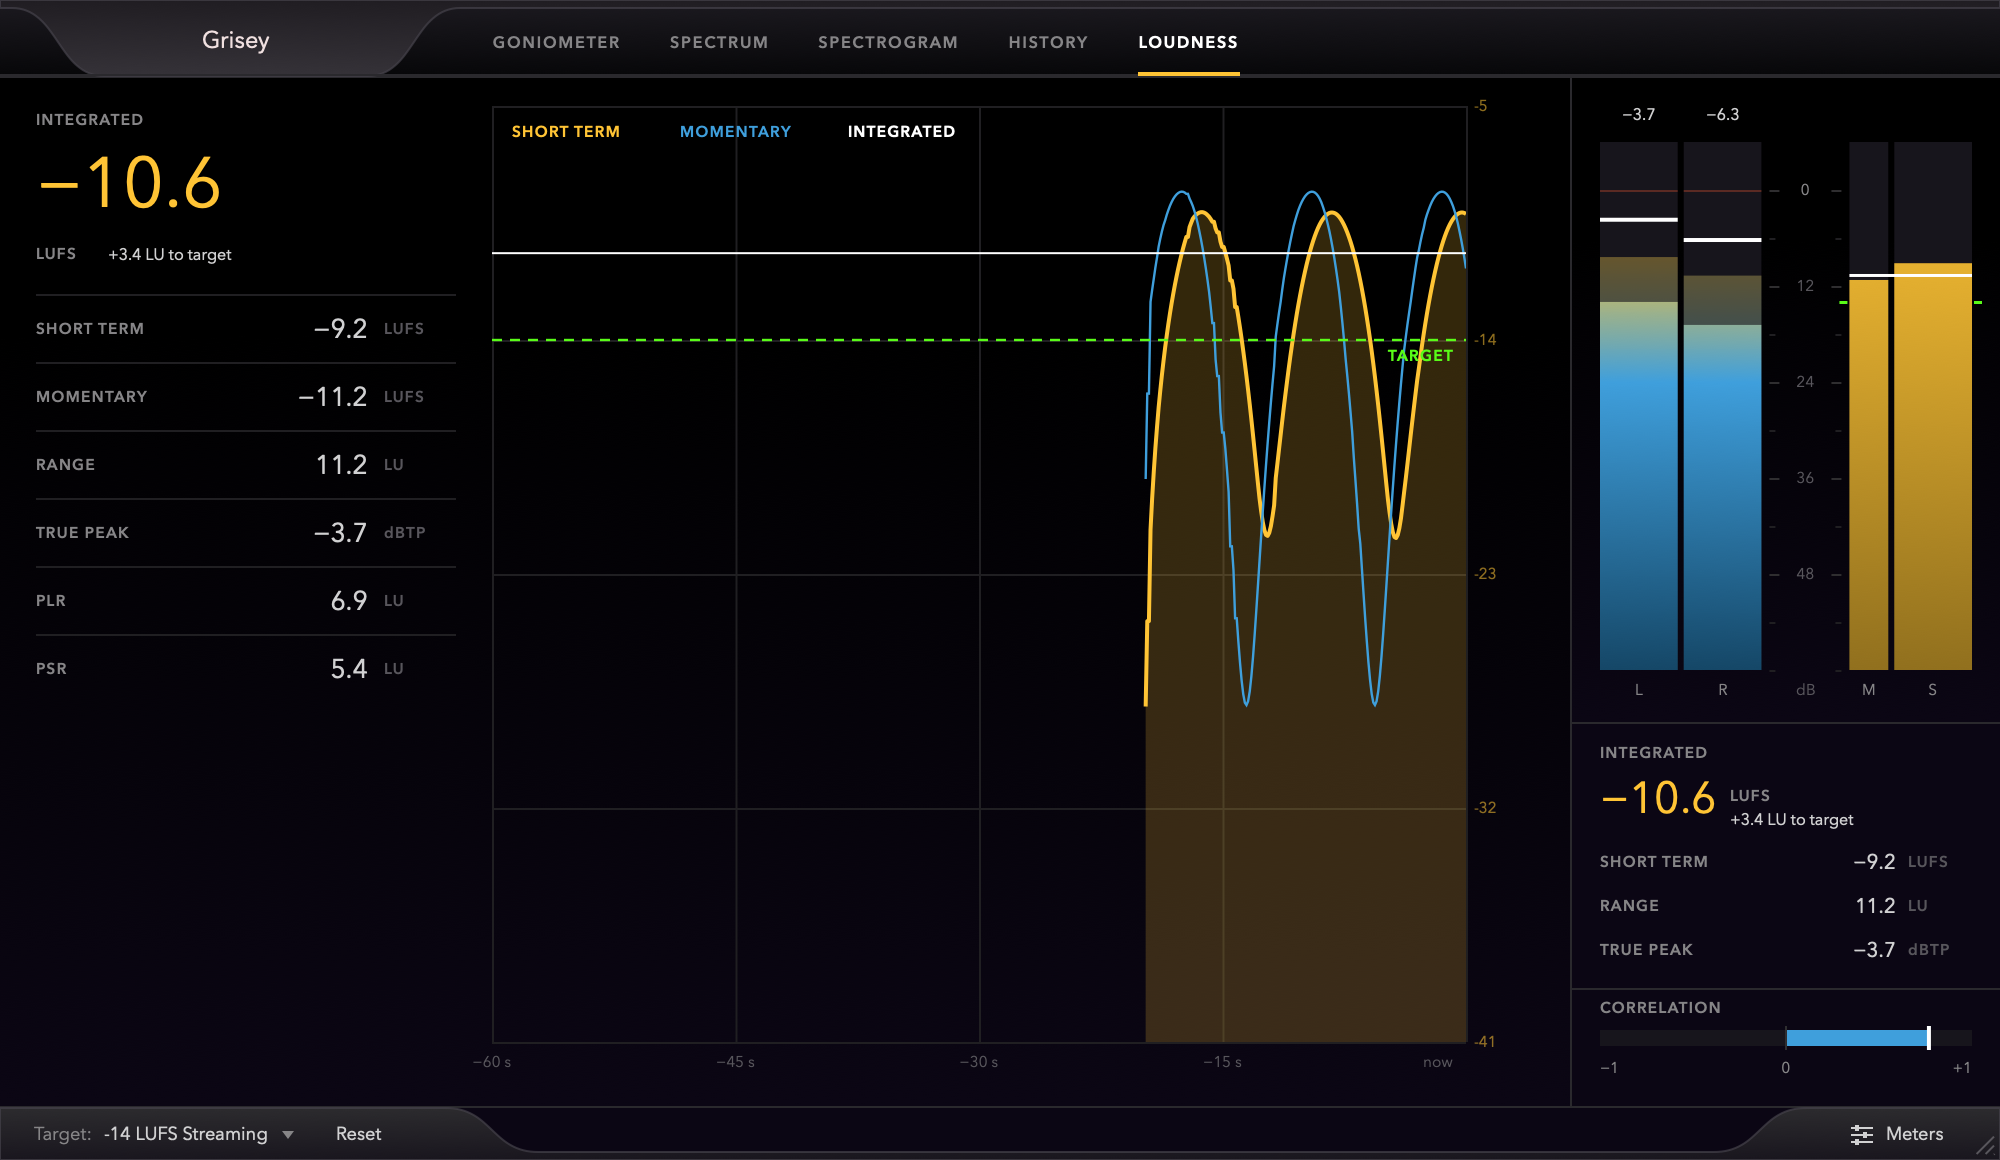
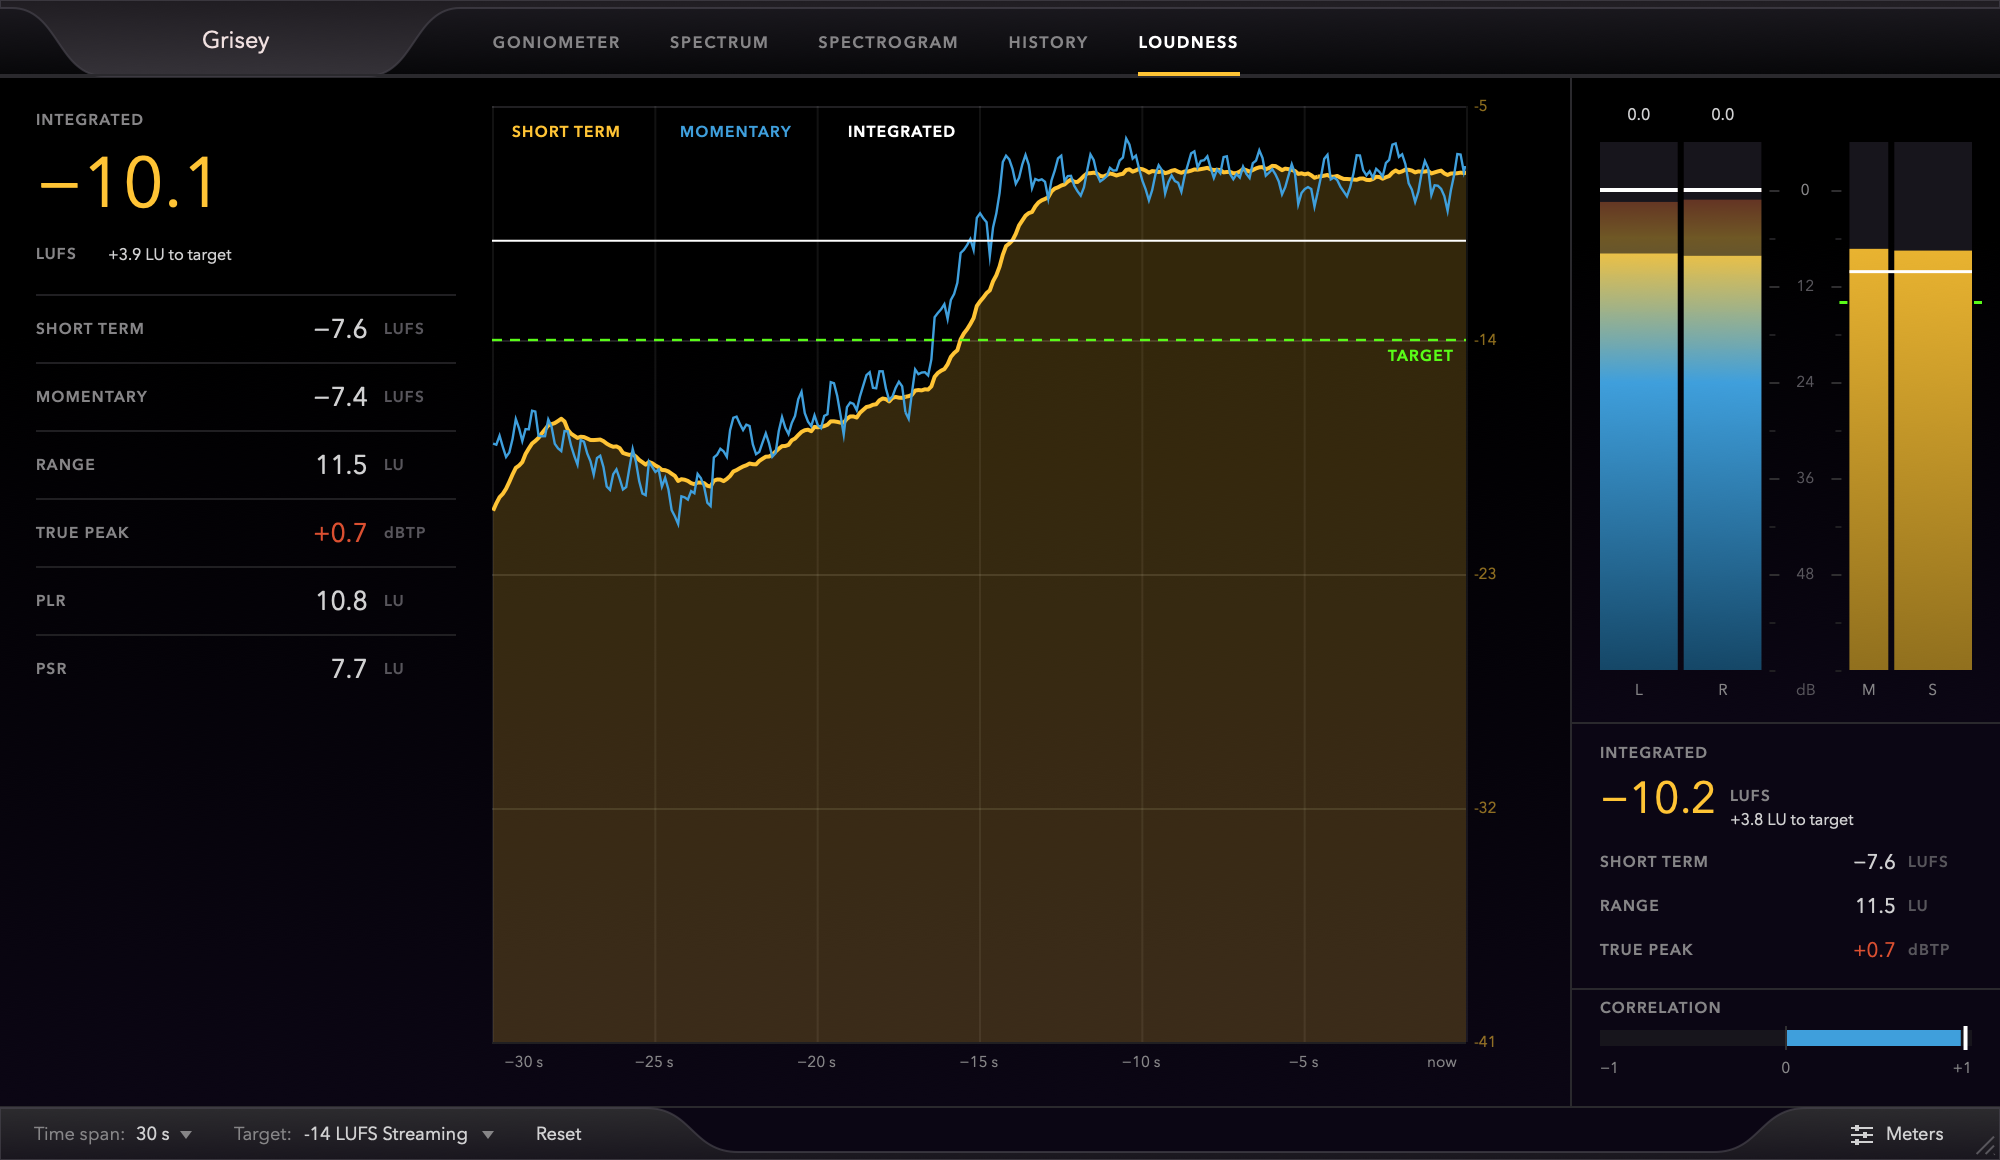
Take the README's pictures with music
The pictures showed the snapshot tool's test tones. The tool can now play an
audio file through the plugin instead (audio=, from=), and the four pictures
were taken again with a song: the spectrum and the goniometer in the full mix,
and the spectrogram and the loudness across the intro and the drop, where
there is something for a timeline to show.

diff --git a/Tests/Snapshot.cpp b/Tests/Snapshot.cpp
@@ -7,7 +7,7 @@
 //
 //   GriseySnapshot <output.png> [view] [seconds] [parameterID=value ...]
 //
-// The views are 0 goniometer, 1 analyzer, 2 spectrogram, 3 histogram and 4 loudness.
+// The views are 0 goniometer, 1 spectrum, 2 spectrogram, 3 history and 4 loudness.
 // Any parameter can be set by its ID, for example spectrumChannels=1 or goniometerMode=1,
 // and size=1400x800 sets the size of the editor.
 //
@@ -19,6 +19,9 @@
 // the channels, a tone that sweeps up from 200 Hz to 8 kHz every 4 s, and a little noise.
 // The whole signal swells and fades every 8 s, so every meter has something to show, and
 // there is a loud click every 5 s, which marks a moment that can be found in every view.
+//
+// audio=song.mp3 plays a file through the plugin instead of the test signal, in a loop, and
+// from=30 starts it 30 s in. The file is read with whatever formats the system offers.
 int main(int argc, char* argv[])
 {
     if (argc < 2)
@@ -33,8 +36,43 @@ int main(int argc, char* argv[])
 
     juce::ScopedJuceInitialiser_GUI juceInit;
 
-    constexpr double sampleRate = 48000.0;
+    double sampleRate = 48000.0;
     constexpr int blockSize = 512;
+
+    // The file has to be read before the processor is prepared, because it decides the sample rate
+    juce::AudioBuffer<float> audioFile;
+    double audioFileStart = 0.0;
+
+    for (int i = 4; i < argc; ++i)
+    {
+        const auto argument = juce::String(argv[i]);
+        const auto value = argument.fromFirstOccurrenceOf("=", false, false);
+
+        if (argument.startsWith("from="))
+            audioFileStart = value.getDoubleValue();
+
+        if (! argument.startsWith("audio="))
+            continue;
+
+        juce::AudioFormatManager formats;
+        formats.registerBasicFormats();
+
+        const std::unique_ptr<juce::AudioFormatReader> reader(formats.createReaderFor(juce::File::getCurrentWorkingDirectory().getChildFile(value)));
+
+        if (reader == nullptr || reader->lengthInSamples < blockSize)
+        {
+            std::cout << "Could not read " << value << std::endl;
+            return 1;
+        }
+
+        sampleRate = reader->sampleRate;
+        audioFile.setSize(2, (int) reader->lengthInSamples);
+        reader->read(&audioFile, 0, (int) reader->lengthInSamples, 0, true, true);
+
+        // A mono file plays on both channels
+        if (reader->numChannels < 2)
+            audioFile.copyFrom(1, 0, audioFile, 0, 0, audioFile.getNumSamples());
+    }
 
     GriseyAudioProcessor processor;
     processor.setPlayConfigDetails(2, 2, sampleRate, blockSize);
@@ -50,6 +88,9 @@ int main(int argc, char* argv[])
     {
         const auto argument = juce::String(argv[i]);
         const auto id = argument.upToFirstOccurrenceOf("=", false, false);
+
+        if (id == "audio" || id == "from")
+            continue;
 
         if (id == "size")
             size = argument.fromFirstOccurrenceOf("=", false, false);
@@ -87,26 +128,41 @@ int main(int argc, char* argv[])
         double sweepPhase = 0.0;
         const auto start = std::chrono::steady_clock::now();
 
+        const int fileLength = audioFile.getNumSamples();
+        const auto fileOffset = (juce::int64) (audioFileStart * sampleRate);
+
         while (running.load())
         {
-            for (int i = 0; i < blockSize; ++i, ++position)
+            if (fileLength > 0)
             {
-                const double t = (double) position / sampleRate;
-                const float low = 0.4f * (float) std::sin(juce::MathConstants<double>::twoPi * 440.0 * t);
-                const float high = 0.15f * (float) std::sin(juce::MathConstants<double>::twoPi * 3000.0 * t);
+                for (int i = 0; i < blockSize; ++i, ++position)
+                {
+                    const int source = (int) ((fileOffset + position) % fileLength);
+                    block.setSample(0, i, audioFile.getSample(0, source));
+                    block.setSample(1, i, audioFile.getSample(1, source));
+                }
+            }
+            else
+            {
+                for (int i = 0; i < blockSize; ++i, ++position)
+                {
+                    const double t = (double) position / sampleRate;
+                    const float low = 0.4f * (float) std::sin(juce::MathConstants<double>::twoPi * 440.0 * t);
+                    const float high = 0.15f * (float) std::sin(juce::MathConstants<double>::twoPi * 3000.0 * t);
 
-                // The sweep rises by the same ratio in every moment, which is a straight line on the spectrogram
-                const double sweepFrequency = 200.0 * std::pow(40.0, std::fmod(t, 4.0) / 4.0);
-                sweepPhase += juce::MathConstants<double>::twoPi * sweepFrequency / sampleRate;
-                const float sweep = 0.1f * (float) std::sin(sweepPhase);
+                    // The sweep rises by the same ratio in every moment, which is a straight line on the spectrogram
+                    const double sweepFrequency = 200.0 * std::pow(40.0, std::fmod(t, 4.0) / 4.0);
+                    sweepPhase += juce::MathConstants<double>::twoPi * sweepFrequency / sampleRate;
+                    const float sweep = 0.1f * (float) std::sin(sweepPhase);
 
-                const float swell = 0.55f + 0.45f * (float) std::sin(juce::MathConstants<double>::twoPi * t / 8.0);
+                    const float swell = 0.55f + 0.45f * (float) std::sin(juce::MathConstants<double>::twoPi * t / 8.0);
 
-                // A burst of noise for 30 ms in every 5 s
-                const float click = std::fmod(t, 5.0) < 0.03 ? 0.8f * (random.nextFloat() * 2.f - 1.f) : 0.f;
+                    // A burst of noise for 30 ms in every 5 s
+                    const float click = std::fmod(t, 5.0) < 0.03 ? 0.8f * (random.nextFloat() * 2.f - 1.f) : 0.f;
 
-                block.setSample(0, i, swell * (low + high + sweep) + click + 0.01f * (random.nextFloat() - 0.5f));
-                block.setSample(1, i, swell * (0.7f * (low - high) + sweep) + click + 0.01f * (random.nextFloat() - 0.5f));
+                    block.setSample(0, i, swell * (low + high + sweep) + click + 0.01f * (random.nextFloat() - 0.5f));
+                    block.setSample(1, i, swell * (0.7f * (low - high) + sweep) + click + 0.01f * (random.nextFloat() - 0.5f));
+                }
             }
 
             processor.processBlock(block, midi);

diff --git a/README.md b/README.md
@@ -112,8 +112,10 @@ build/GriseySnapshot_artefacts/Release/GriseySnapshot editor.png 4
 The number picks the view (0 goniometer, 1 spectrum, 2 spectrogram, 3 history, 4 loudness).
 Parameters can be set by their IDs, for example `spectrumChannels=1`, and `size=1400x800` sets the
 size of the editor. `also=2,3` stops the audio and then saves those views as well, all of the same
-moment, which shows what each view recorded while it was hidden. The tool's window ignores the mouse, so that it cannot take a click that was
-meant for something else.
+moment, which shows what each view recorded while it was hidden. `audio=song.mp3` plays a file
+through the plugin in place of the test signal, and `from=30` starts it 30 s in, which is how the
+pictures on this page were made. The tool's window ignores the mouse, so that it cannot take a
+click that was meant for something else.
 
 ## The name, and version 1
 
